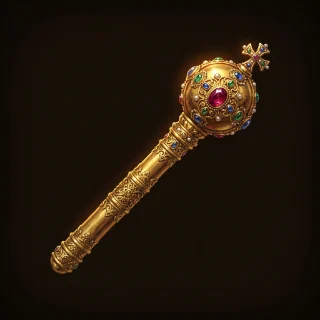
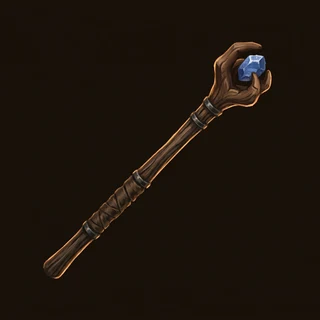
feat(arte): boleadeira, bumerangue, cetro, cimitarra, fundíbulo e braceletes; coroa de cobre; água com a pintura do karmaquoso
Claude-Session: https://claude.ai/code/session_011mKRLwugiLHb71jj5aqaEQ

Changed region(s): [[0.125, 0.125, 0.875, 0.875]]

diff --git a/src/11-ficha/ficha.jsx b/src/11-ficha/ficha.jsx
@@ -1889,6 +1889,7 @@ const ARTE_PINTADA = new Set([
   // as armas pelo tipo (23/10/2026) — ver ARMA_POR_NOME
   'arma-arco', 'arma-besta', 'arma-lanca', 'arma-tridente', 'arma-maca', 'arma-martelo',
   'arma-mangual', 'arma-cajado', 'arma-cetro', 'arma-chicote', 'arma-foice',
+  'arma-boleadeira', 'arma-bumerangue', 'arma-fundibulo', 'arma-cimitarra', 'arma-cetro-dourado',
   /* 27/10/2026 — as 21 pinturas novas, já no vocabulário do TIPO: joia pelo
      metal, veste pelo tecido. "Brinco Nobre não existe mais, agora é Brinco de
      Ouro" (usuário). */
@@ -1913,6 +1914,8 @@ const ARTE_PINTADA = new Set([
   // porrete, maça flangeada e estrela da manhã — o tipo "maca" lido do nome (clava, porrete, maça…).
   'arma-maca-leve', 'arma-maca-medio', 'arma-maca-pesado',
   // "O marfim são ossos" (usuário, 28/11/2026): a coroa de marfim é de osso, não a de prata.
+  // Braceletes com pintura própria (28/11/2026); antes emprestavam a do anel.
+  'bracelete-ouro', 'bracelete-prata', 'bracelete-latao', 'bracelete-marfim',
   'coroa-marfim', 'brincos-marfim', 'piercing-marfim', 'colar-marfim', 'pingente-marfim',
 ]);
 
@@ -2047,6 +2050,15 @@ function versaoDaArte(base, cat, profissao) {
    Arma de duas mãos já é espelhada nas duas casas (ocupanteDefesa). Sem tipo
    reconhecido (arremesso, soqueira…), fica a pintura pelo peso, como antes. */
 const ARMA_POR_NOME = [
+  /* Tipos com pintura própria desde 28/11/2026 (usuário: "A imagem de
+     boleadeira está errada", "O bumerangue está com a imagem errada", "A
+     cimitarra é uma espada curva", "O fundíbulo é um estilingue"). O Cetro
+     Dourado guarda a pintura dourada; o cetro comum é de madeira com uma pedra. */
+  ['boleadeira', /\bboleadeira\b/],
+  ['bumerangue', /\bbumerangue\b/],
+  ['fundibulo', /\b(fundibulo|estilingue)\b/],
+  ['cimitarra', /\bcimitarra\b/],
+  ['cetro-dourado', /\bcetro dourado\b/],
   ['besta', /\b(besta|arlabesta)\b/],
   ['arco', /\b(arco|galadhrim|impetusion)\b/],
   ['tridente', /\btridente\b/],
@@ -2060,7 +2072,7 @@ const ARMA_POR_NOME = [
   ['cetro', /\bcetro\b/],
   ['cajado', /\b(cajado|libano da luz|necroptum|coracao de lena)\b/],
   ['adaga', /\b(adaga|punhal|faca)\b/],
-  ['espada', /\b(espada|montante|cimitarra|sabre|rapieira|crissaegrim|daeva do mar|jagan|kronagar|sagae|vampirus escarlate)\b/],
+  ['espada', /\b(espada|montante|sabre|rapieira|crissaegrim|daeva do mar|jagan|kronagar|sagae|vampirus escarlate)\b/],
 ];
 // Adaga usa a pintura genérica leve; espada e machado têm as suas por peso.
 const ARMA_ARTE = { adaga: 'arma-leve' };
@@ -2497,6 +2509,8 @@ const ARMA_TIPO_NOME = {
   espada: 'Espada', machado: 'Machado', lanca: 'Lança', arco: 'Arco', besta: 'Besta',
   tridente: 'Tridente', foice: 'Foice', chicote: 'Chicote', mangual: 'Mangual',
   martelo: 'Martelo', maca: 'Maça', cetro: 'Cetro', cajado: 'Cajado', adaga: 'Adaga',
+  boleadeira: 'Boleadeira', bumerangue: 'Bumerangue', fundibulo: 'Fundíbulo', cimitarra: 'Cimitarra',
+  'cetro-dourado': 'Cetro Dourado',
 };
 function artesDaBase(slugBase) {
   const slug = String(slugBase || '');

diff --git a/src/01-core/bases-item.jsx b/src/01-core/bases-item.jsx
@@ -152,7 +152,8 @@ const BASES_ITEM = [
   /* A coroa de marfim tem pintura própria, de OSSO (28/11/2026, usuário: "O
      marfim são ossos, ou seja, coroa de marfim deve ser um exemplar de
      ossos"); antes emprestava a de prata. */
-  ...comArte(veste('coroa', 'Coroa', ['cabeca'], ['ouro', 'prata', 'marfim']), { ...METAL_PROPRIO('coroa'), marfim: null }),
+  // A coroa de cobre voltou em 28/11/2026 (usuário: "Adicione o item coroa de cobre e use a imagem").
+  ...comArte(veste('coroa', 'Coroa', ['cabeca'], ['ouro', 'prata', 'cobre', 'marfim']), { ...METAL_PROPRIO('coroa'), marfim: null }),
   // Sem latão e marfim desde 28/11/2026: o usuário excluiu os dois exemplares do catálogo.
   ...comArte(veste('tiara', 'Tiara', ['cabeca'], ['ouro', 'prata', 'cobre']), METAL_PROPRIO('tiara')),
   // Sem linho, cobre: os únicos exemplares eram versões de profissão, removidas em 28/11/2026.
@@ -193,7 +194,8 @@ const BASES_ITEM = [
   ...comArte(veste('bombacha', 'Bombacha', ['perna'], TECIDO),
     { seda: 'calca-seda', linho: 'calca-algodao', algodao: 'calca-algodao', couro: 'calca-couro' }),
   ...comArte(veste('anel', 'Anel', ['dedo'], ['ouro', 'prata', 'latao', 'marfim']), METAL_ANTIGO('anel')),
-  ...comArte(veste('bracelete', 'Bracelete', ['pulso'], ['ouro', 'prata', 'latao', 'marfim']), METAL_ANTIGO('anel')),
+  // Pintura própria por material desde 28/11/2026 ("Crie imagens para os braceletes"); antes, a do anel.
+  ...veste('bracelete', 'Bracelete', ['pulso'], ['ouro', 'prata', 'latao', 'marfim']),
   ...comArte(veste('pulseira', 'Pulseira', ['pulso'], METAL), METAL_ANTIGO('anel')),
   // Pintura própria desde 27/11/2026 (luva-pano-*); antes emprestava a manopla leve.
   ...veste('luva-pano', 'Luva', ['pulso'], ['seda', 'couro', 'algodao']),
@@ -250,9 +252,10 @@ const BASES_ITEM = [
   { slug: 'lamparina', nome: 'Lamparina', familia: 'Viagem', grupos: ['Itens'], onde: BASE_ITEM },
   { slug: 'pederneira', nome: 'Pederneira', familia: 'Viagem', grupos: ['Consumíveis', 'Itens'], onde: BASE_ITEM },
   { slug: 'lenha', nome: 'Lenha', familia: 'Matéria-prima', grupos: ['Consumíveis'], onde: BASE_ITEM },
-  { slug: 'agua', nome: 'Água', familia: 'Alimento', grupos: ['Consumíveis'], onde: BASE_ITEM },
+  // Água e Água Suja usam a pintura do Karmaquoso (usuário, 28/11/2026).
+  { slug: 'agua', nome: 'Água', familia: 'Alimento', grupos: ['Consumíveis'], onde: BASE_ITEM, arte: 'karmaquoso' },
   // A gota turva (30/10/2026): com a base 'agua', a Água Suja pegava a gota limpa.
-  { slug: 'agua_suja', nome: 'Água Suja', familia: 'Alimento', grupos: ['Consumíveis'], onde: BASE_ITEM },
+  { slug: 'agua_suja', nome: 'Água Suja', familia: 'Alimento', grupos: ['Consumíveis'], onde: BASE_ITEM, arte: 'karmaquoso' },
   { slug: 'cachimbo', nome: 'Cachimbo', familia: 'Viagem', grupos: ['Itens'], onde: BASE_ITEM },
 
   { slug: 'gema', nome: 'Gema', familia: 'Mineral', grupos: ['Minerais'], onde: BASE_ITEM },

diff --git a/src/01-core/bases-item.test.jsx b/src/01-core/bases-item.test.jsx
@@ -314,3 +314,27 @@ describe('as bases dos itens excluídos saíram (28/11/2026)', () => {
     }
   });
 });
+
+describe('ajustes de armas, braceletes, coroa e água (28/11/2026)', () => {
+  const arma = (nome, grupo_armas) => window.arteDoItem({ nome, slug: nome, categoria_equip: 'arma', grupo_armas, slot_equip: 'mao' });
+  it('boleadeira, bumerangue, fundíbulo e cimitarra têm pintura própria', () => {
+    expect(arma('Boleadeira', 'CI')).toBe('/equip/arma-boleadeira.webp');
+    expect(arma('Bumerangue de Caça', 'CL')).toBe('/equip/arma-bumerangue.webp');
+    expect(arma('Fundíbulo', 'EL')).toBe('/equip/arma-fundibulo.webp');
+    expect(arma('Cimitarra', 'CM')).toBe('/equip/arma-cimitarra.webp');
+  });
+  it('o cetro comum é o de madeira; o Cetro Dourado guarda o dourado', () => {
+    expect(arma('Cetro', 'EL')).toBe('/equip/arma-cetro.webp');
+    expect(arma('Cetro Dourado', 'EL')).toBe('/equip/arma-cetro-dourado.webp');
+  });
+  it('cada bracelete tem a sua pintura, e a coroa de cobre a dela', () => {
+    for (const m of ['ouro', 'prata', 'latao', 'marfim']) {
+      expect(window.arteDaBase('bracelete-' + m)).toBe('/equip/bracelete-' + m + '.webp');
+    }
+    expect(window.arteDaBase('coroa-cobre')).toBe('/equip/coroa-cobre.webp');
+  });
+  it('Água e Água Suja usam a pintura do Karmaquoso', () => {
+    expect(window.arteDaBase('agua')).toBe('/itens/karmaquoso.webp');
+    expect(window.arteDaBase('agua_suja')).toBe('/itens/karmaquoso.webp');
+  });
+});

diff --git a/.impeccable/arte-equipamentos.md b/.impeccable/arte-equipamentos.md
@@ -791,3 +791,22 @@ capuz-linho, anel-cobre, bracelete-cobre.
 | ✔ ogro | Ogro, Ogro Líder, Ogro Rei — pele verrugosa, mandíbula com dentes tortos |
 | ✔ gigante | Gigante da Colina, do Deserto e da Neve — pele de pedra, colar de seixos (o 1º saiu humano demais; refeito) |
 | ✔ dragoniano | Dragoniano Jovem, Dragoniano, Guerreiro, Líder — escamas vermelho-bronze, olhos dourados |
+
+## Revisão 2 de 28/11/2026
+
+| arquivo | o que mudou |
+|---|---|
+| ✔ arma-boleadeira | três bolas de pedra em couro presas por cordas trançadas (antes caía na arma leve genérica) |
+| ✔ arma-bumerangue | bumerangue de madeira com entalhes (antes, arma leve genérica) |
+| ✔ arma-cetro | o cetro comum agora é de madeira com uma safira; o dourado virou `arma-cetro-dourado` (Cetro Dourado) |
+| ✔ arma-cimitarra | espada curva com guarda de latão (antes, a espada média reta) |
+| ✔ arma-fundibulo | estilingue de galho com pedra na bolsa (antes, a maça) |
+| ✔ bracelete-ouro · -prata · -latao · -marfim | braceletes próprios (antes, a pintura do anel); marfim de osso |
+
+Coroa de Cobre voltou como item (1000 latões; scripts/sql/coroa-cobre-2026-11-28.sql),
+com a pintura coroa-cobre que já existia. Água e Água Suja usam a pintura do
+Karmaquoso (base com `arte: 'karmaquoso'`).
+
+Pinturas no disco que nenhum item nem casa vazia usa (28/11/2026):
+arma-arco-leve, arma-lanca, arma-maca, mascara-couro, agua, agua_suja,
+algibeira_grande, aljava_reforcada, equipamento_de_viagem, marfim_demoniaca.
